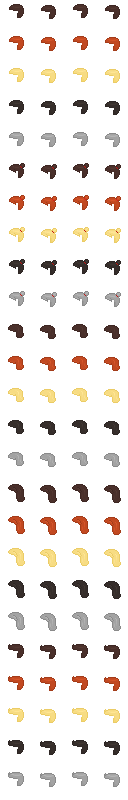
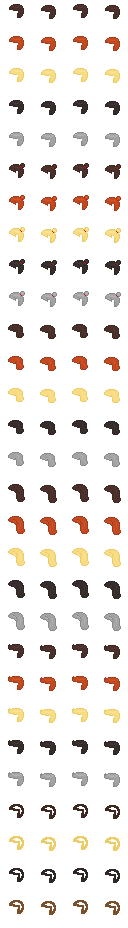
feat: Pixel World 아바타 짧은 헤어 2종(숏컷/까까머리) 4~7색 추가
기존 헤어(번/단발/긴머리/옆머리)가 전부 볼륨 있는 긴/여성형 실루엣이라 짧은 스타일을 보강한다.

atlas 25행 전체를 확인해 rows 0-4가 상점에서 한 번도 판 적 없던 미사용 스타일(볼륨 없는 단정한
숏컷, 4방향 정렬 정상)임을 발견했다. 요청한 4색(black/dark_brown/brown/blonde) 중
black/dark_brown/blonde 3개는 기존 5색 반복 안에 이미 있었지만, dark_brown(row 0)은 다른 모든
슬롯과 같은 이유로 팔지 않았다 — hair:null(미장착) 렌더 기본값이라 이미 모든 유저가 공짜로 보고
있는 모습이라 상품화하면 "소유"가 무의미해진다. 그래서 새 PNG 없이 블론드/블랙 2색만
hair_crop_blonde/hair_crop_black으로 판매한다.

"brown"(다크브라운과 구별되는 중간 갈색)과 buzzcut 실루엣 자체는 atlas에 없어, Python(Pillow)으로
8개 Hair 시트(Idle/Walk × Front/Back/Left/Right) 전부에 새 row 25-28을 추가했다. 손으로 새
좌표를 그리지 않고 이미 검증된 rows 0-4 실루엣의 alpha를 2단계 침식(erode)해 바깥 테두리만 남기는
방식이라, 4방향/걷기 모두 처음부터 원본과 같은 자리에 맞는다. 다크브라운/블론드/블랙(기존 팔레트
재사용) + 새로 만든 중간 갈색 rgb(124,79,45)(요청한 색 중 atlas에 없던 유일한 색) 4색을
hair_buzz/hair_buzz_blonde/hair_buzz_black/hair_buzz_brown으로 판매한다.

sprites.tsx의 hair 레이어 렌더 height 상수를 실제 시트 높이(800→928)에 맞춰 갱신했다. 총 6개
신규 상품(재사용 2 + 신규 4), 카탈로그 40→46개, 헤어 슬롯 12→18개. 기존 헤어/상의/하의/신발/
피부색/눈동자색 데이터와 row 매핑은 전혀 건드리지 않았다.

Claude-Session: https://claude.ai/code/session_01Hrz66XMfMxtM2fMBadHJXg

diff --git a/src/features/pixel-room/shop/catalog.ts b/src/features/pixel-room/shop/catalog.ts
@@ -49,4 +49,15 @@ export const PIXEL_CATALOG: readonly PixelItem[] = [
   { itemId: 'furniture_tallplant', category: 'furniture', slot: 'furniture', price: 80, assetKey: 'tallplant', displayName: '키 큰 초록 식물', tier: 2, stackable: false },
   { itemId: 'furniture_floorlamp', category: 'furniture', slot: 'furniture', price: 100, assetKey: 'floorlamp', displayName: '격자 갓 스탠드', tier: 2, stackable: false },
   { itemId: 'pet_dog', category: 'pet', slot: 'pet', price: 200, assetKey: 'dog', displayName: '우리 집 강아지', tier: 2, stackable: false },
+  // 헤어가 긴머리/여성형 실루엣(번/단발/긴머리/옆머리)에 치우쳐 있어 짧은 스타일을 보강한다.
+  // crop_*은 atlas에 이미 있던, 한 번도 팔지 않은 rows 0-4(볼륨 없는 단정한 숏컷) — 새 PNG 없음.
+  // 다크브라운(row 0)은 다른 슬롯과 같은 이유로 팔지 않는다: hair:null일 때의 기본값이라 이미
+  // 모든 유저가 공짜로 보고 있다. buzz_*은 그 실루엣을 침식해 만든 새 rows 25-28(진짜 버즈컷,
+  // 두피가 비쳐 보이는 얇은 테두리).
+  { itemId: 'hair_crop_blonde', category: 'avatar', slot: 'hair', price: 100, assetKey: 'crop_blonde', displayName: '블론드 숏컷', tier: 1, stackable: false },
+  { itemId: 'hair_crop_black', category: 'avatar', slot: 'hair', price: 100, assetKey: 'crop_black', displayName: '블랙 숏컷', tier: 1, stackable: false },
+  { itemId: 'hair_buzz', category: 'avatar', slot: 'hair', price: 90, assetKey: 'buzz', displayName: '까까머리', tier: 1, stackable: false },
+  { itemId: 'hair_buzz_blonde', category: 'avatar', slot: 'hair', price: 90, assetKey: 'buzz_blonde', displayName: '블론드 까까머리', tier: 1, stackable: false },
+  { itemId: 'hair_buzz_black', category: 'avatar', slot: 'hair', price: 90, assetKey: 'buzz_black', displayName: '블랙 까까머리', tier: 1, stackable: false },
+  { itemId: 'hair_buzz_brown', category: 'avatar', slot: 'hair', price: 90, assetKey: 'buzz_brown', displayName: '브라운 까까머리', tier: 1, stackable: false },
 ];

diff --git a/src/features/pixel-room/shop/appearanceRows.ts b/src/features/pixel-room/shop/appearanceRows.ts
@@ -19,6 +19,16 @@ export const AVATAR_ROW_BY_SLOT: Record<AppearanceLayerKey, Record<string, numbe
     buns: 5, bob: 10, long: 15, swept: 20,
     buns_blonde: 7, buns_black: 8, bob_blonde: 12, bob_black: 13,
     long_blonde: 17, long_black: 18, swept_blonde: 22, swept_black: 23,
+    // rows 0-4: 상점에서 한 번도 판 적 없던 짧은 실루엣(볼륨/뎁 없는 단정한 숏컷). row 0(다크브라운)은
+    // 다른 모든 슬롯과 마찬가지로 미장착 기본값이라 팔지 않는다(이미 모든 유저가 공짜로 보고 있는
+    // 모습 — 여기서 상품화하면 "소유"의 의미가 없어진다). 그래서 색상 변형 2개(블론드/블랙)만 새
+    // PNG 없이 판다.
+    crop_blonde: 2, crop_black: 3,
+    // rows 25-28: 기존 25행에 없던 진짜 버즈컷. 기존 crop(rows 0-4) 실루엣의 alpha를 침식(erode)해
+    // 만든 얇은 테두리라 4방향/걷기 모두 원본과 항상 같은 자리에 맞는다 — 손으로 새로 그린 좌표가
+    // 아니라 이미 검증된 헤어라인에서 파생된 도형이라 정렬이 깨질 수 없다. brown은 기존 팔레트에
+    // 없던 색이라 새로 추가했다(다크브라운과 구분되는 중간 갈색).
+    buzz: 25, buzz_blonde: 26, buzz_black: 27, buzz_brown: 28,
   },
   eyes: { navy: 0, sky: 1, olive: 2, brown: 3 },
   skin: { tan: 0, sand: 1, wheat: 2, umber: 3, porcelain: 4 },

diff --git a/tests/pixelShop/content.test.ts b/tests/pixelShop/content.test.ts
@@ -7,7 +7,7 @@ import type { FurnitureType } from '../../src/features/pixel-room/model.ts';
 import { toPublicAvatarAppearance } from '../../src/utils/pixelShopAppearance.ts';
 
 test('every avatar product maps to a real, bounded atlas row in its own slot', () => {
-  const rowCounts = { top: 29, bottom: 14, shoes: 10, hair: 25, eyes: 4 };
+  const rowCounts = { top: 29, bottom: 14, shoes: 10, hair: 29, eyes: 4 };
   const ids = new Set<string>();
   for (const item of PIXEL_CATALOG) {
     assert.ok(!ids.has(item.itemId)); ids.add(item.itemId);
@@ -17,8 +17,8 @@ test('every avatar product maps to a real, bounded atlas row in its own slot', (
     const row = AVATAR_ROW_BY_SLOT[item.slot][item.assetKey];
     assert.ok(Number.isInteger(row) && row > 0 && row < rowCounts[item.slot]);
   }
-  assert.equal(ids.size, 40);
-  assert.equal(PIXEL_CATALOG.filter(item => item.slot === 'hair').length, 12);
+  assert.equal(ids.size, 46);
+  assert.equal(PIXEL_CATALOG.filter(item => item.slot === 'hair').length, 18);
   assert.equal(PIXEL_CATALOG.filter(item => item.slot === 'top').length, 10);
   assert.equal(PIXEL_CATALOG.filter(item => item.slot === 'bottom').length, 4);
   assert.equal(PIXEL_CATALOG.filter(item => item.category === 'furniture').length, 12);

diff --git a/src/features/pixel-room/sprites.tsx b/src/features/pixel-room/sprites.tsx
@@ -8,7 +8,7 @@ import type { AppearanceLayerKey, PublicAvatarAppearance } from './shop/types';
 const layers: { key: keyof AvatarLayers; height: number; slot: AppearanceLayerKey | null }[] = [
   { key: 'body', height: 160, slot: 'skin' }, { key: 'eyes', height: 128, slot: 'eyes' },
   { key: 'bottoms', height: 448, slot: 'bottom' }, { key: 'shoes', height: 320, slot: 'shoes' },
-  { key: 'tops', height: 928, slot: 'top' }, { key: 'hair', height: 800, slot: 'hair' },
+  { key: 'tops', height: 928, slot: 'top' }, { key: 'hair', height: 928, slot: 'hair' },
 ];
 // Unset/unknown asset keys resolve to the original row 0; server equipment selects all other rows.
 function rowForSlot(slot: AppearanceLayerKey | null, assetKey: string | null): number {

diff --git a/docs/pixel-world-content.md b/docs/pixel-world-content.md
@@ -306,3 +306,37 @@ set/reset/잘못된 값 거부/직접쓰기 차단을 추가해 실제 DB에서 
   사라졌음과 상점 카드/얼굴 확대(`face-zoom`)에서 피부색·눈동자색 스와치가 정상 반영됨을 육안
   확인. `npm run build`(tsc -b && vite build) clean, `npm run lint`에는 사전 존재하던
   `src/App.tsx`의 react-hooks 오류가 있으나 이번 변경 파일과 무관(수정 파일에 없음, 손대지 않음).
+
+## 후속 작업 — 짧은 헤어 보강 (2026-09-16)
+
+- 신고된 문제: 헤어가 번/단발/긴머리/옆머리(전부 볼륨 있는 긴/여성형 실루엣) 4종뿐이라 짧은
+  스타일이 없음. 사용자가 제시한 5개 후보(까까머리/단정한 짧은머리/짧은 앞머리 컷/투블럭 숏컷/
+  부스스한 숏컷) 중 atlas 재사용 가능 범위와 새 아트 리스크를 사용자에게 보고하고, "재사용 1개 +
+  신규 1개"로 범위를 합의한 뒤 진행했다(8개 hair sheet에 새 row를 일관되게 추가하는 건 강아지
+  sprite 교체보다 훨씬 큰 작업이라, 스타일 수를 늘리는 대신 품질에 집중).
+- **재사용**: hair atlas 25행을 전부 확인해 rows 0-4가 상점에서 한 번도 판 적 없던 미사용
+  스타일임을 발견 — 볼륨/뎁 없는 단정한 숏컷, 4방향 모두 정렬 정상. 요청한 4색 중 black/
+  dark_brown/blonde 3개가 기존 5색 반복(다크브라운/레드/블론드/블랙/그레이) 안에 이미 있었다.
+  다만 dark_brown(row 0)은 다른 모든 슬롯과 마찬가지로 `hair:null`(미장착) 렌더 기본값이라
+  이미 모든 유저가 공짜로 보고 있는 모습 — 그대로 팔면 "소유"의 의미가 없어져서 상품화하지 않고
+  블론드(`hair_crop_blonde`)/블랙(`hair_crop_black`) 2개만 새로 팔았다.
+- **신규 추가(진짜 버즈컷)**: 위 3색으로는 "brown"(다크브라운과 구별되는 중간 갈색)과 buzzcut
+  실루엣 자체가 atlas에 없어, Python(Pillow)으로 8개 Hair 시트(Idle/Walk × Front/Back/Left/
+  Right) 전부에 새 row 25-28을 추가했다. 손으로 새 좌표를 그리지 않고, 이미 검증된 rows 0-4
+  실루엣의 alpha를 `ImageFilter.MinFilter`로 2단계 침식(erode)해 바깥 테두리만 남기는 방식을
+  썼다 — 그래서 4방향/걷기 전부 처음부터 원본과 같은 자리에 맞는다(정렬 버그가 생길 수 없는
+  구조). 색상은 다크브라운(기본)/블론드/블랙(기존 팔레트 재사용) + 새로 만든 중간 갈색
+  `rgb(124,79,45)`(요청한 4색 중 atlas에 없던 유일한 색) 총 4개(`hair_buzz`/`hair_buzz_blonde`/
+  `hair_buzz_black`/`hair_buzz_brown`). 결과: 새 상품 6개(재사용 2 + 신규 4), 카탈로그 총
+  40→46개, 헤어 슬롯 12→18개.
+- `sprites.tsx`의 hair 레이어 렌더 height 상수(800→928)를 실제 시트 높이에 맞춰 갱신했다 —
+  누락했다면 새로 추가한 4행이 잘못된 y좌표로 잘려 보였을 것.
+- 검증: `tests/pixelShop/content.test.ts`(atlas row 경계/카탈로그 개수 전수 검사, hair row 개수
+  25→29 갱신) 등 전체 유닛 테스트 79/79 통과. Playwright로 새 상품 6개 전부 구매→자동 장착 후
+  방에서 정면/후면/측면 스크린샷 확인 — 4방향 모두 헤어라인 정렬 정상, 버즈컷은 두피 색이 비쳐
+  보이는 얇은 테두리로 기존 굵은 스타일들과 실루엣이 뚜렷이 구분됨. 기존 브라우저 회귀 테스트
+  전부 재실행해 회귀 없음 재확인: `pixelShop/browser.mjs`(390/800/1440, 기존 4슬롯 구매/장착/
+  새로고침 포함), `base-appearance.browser.mjs`(피부색/눈동자색 무회귀), `doormat.browser.mjs`,
+  `furniture-race.browser.mjs`, `yard.browser.mjs`(390/1440), `dog.browser.mjs`,
+  `plaza/interactions.browser.mjs`, `plaza/landscape.browser.mjs`(390/1440). `npm run build`
+  clean, `npm run lint`에는 무관한 기존 `src/App.tsx` 오류만 있음(미수정 파일).

diff --git a/docs/pixel-room-assets.md b/docs/pixel-room-assets.md
@@ -19,12 +19,30 @@
 | Clothing_Tops | 128×928 | 상의 29행 |
 | Clothing_Bottoms | 128×448 | 하의 14행 |
 | Clothing_Shoes | 128×320 | 신발 10행 |
-| Hair | 128×800 | 머리 25행 |
+| Hair | 128×928 (원본 800 + 자체 추가 128) | 머리 29행(원본 25행 + 자체 추가 4행, 2026-09-16) |
 | Eyes | 128×128 | 눈 4행; Back에는 별도 눈 파일이 없음 |
 
 각 프레임은 32×32, 가로 4프레임이다. `x = frameIndex × 32`, `y = variantRow × 32`. Front 상의 atlas를 육안 확인해 0행 빨강, 1행 초록, 2행 파랑 반팔을 MVP 선택지로 권장한다. 피부·머리·눈·하의·신발은 우선 0행을 사용한다. 레이어 순서는 body → eyes → bottoms → shoes → tops → hair를 기본으로 한다.
 
 원본 명명 예외: Idle/Back 상의는 `Clothing_Top_Idle_Back-Sheet.png`로 `Top`이 단수다. `assets.ts`가 이를 정규화한다. Back 눈은 빈 문자열이므로 렌더러에서 생략한다. 모자는 이 팩에 포함되지 않는다. 다른 family 모자를 임의로 겹치지 않으며, MVP 실제 선택지는 상의 3개다.
+
+### 짧은 헤어 보강 (2026-09-16)
+
+헤어가 번/단발/긴머리/옆머리 4종(전부 볼륨이 있는 긴/여성형 실루엣)에 치우쳐 있어 짧은 스타일을
+추가했다. 새 PNG를 만들지 않고 두 방식을 함께 썼다.
+
+- **rows 0-4 재사용**: 원본 팩에 이미 있었지만 상점에서 한 번도 판 적 없던 볼륨 없는 단정한
+  숏컷. 색상은 기존 5색(다크브라운/레드/블론드/블랙/그레이) 반복 중 블론드(row 2)/블랙(row 3)
+  2개만 새로 판다 — row 0(다크브라운)은 다른 모든 슬롯과 같은 이유로 팔지 않는다: `hair:null`일
+  때의 렌더 기본값이라 이미 모든 유저가 공짜로 보고 있는 모습이고, 그대로 상품화하면 "소유"가
+  무의미해진다.
+- **rows 25-28 신규 추가(진짜 버즈컷)**: 8개 Hair 시트(Idle/Walk × Front/Back/Left/Right) 각각에
+  Python(Pillow)로 새 행을 추가했다. rows 0-4의 실루엣(이미 4방향 모두 검증된 정렬)의 alpha를
+  `ImageFilter.MinFilter`로 2단계 침식(erode)해 바깥 테두리만 남기는 방식이라, 새로 좌표를 그린
+  게 아니라 기존에 맞던 헤어라인에서 얇은 링 형태로 파생시켰다 — 그래서 4방향/걷기 모두 처음부터
+  정렬이 맞는다. 색상은 다크브라운(row25, 기본)/블론드(row26)/블랙(row27)에 더해 기존 팔레트에
+  없던 중간 갈색(row28, `rgb(124,79,45)`)을 새로 추가했다(요청한 4색 black/dark_brown/brown/
+  blonde 중 유일하게 없던 색).
 
 ## 가구: Syntaxes of Play
 
